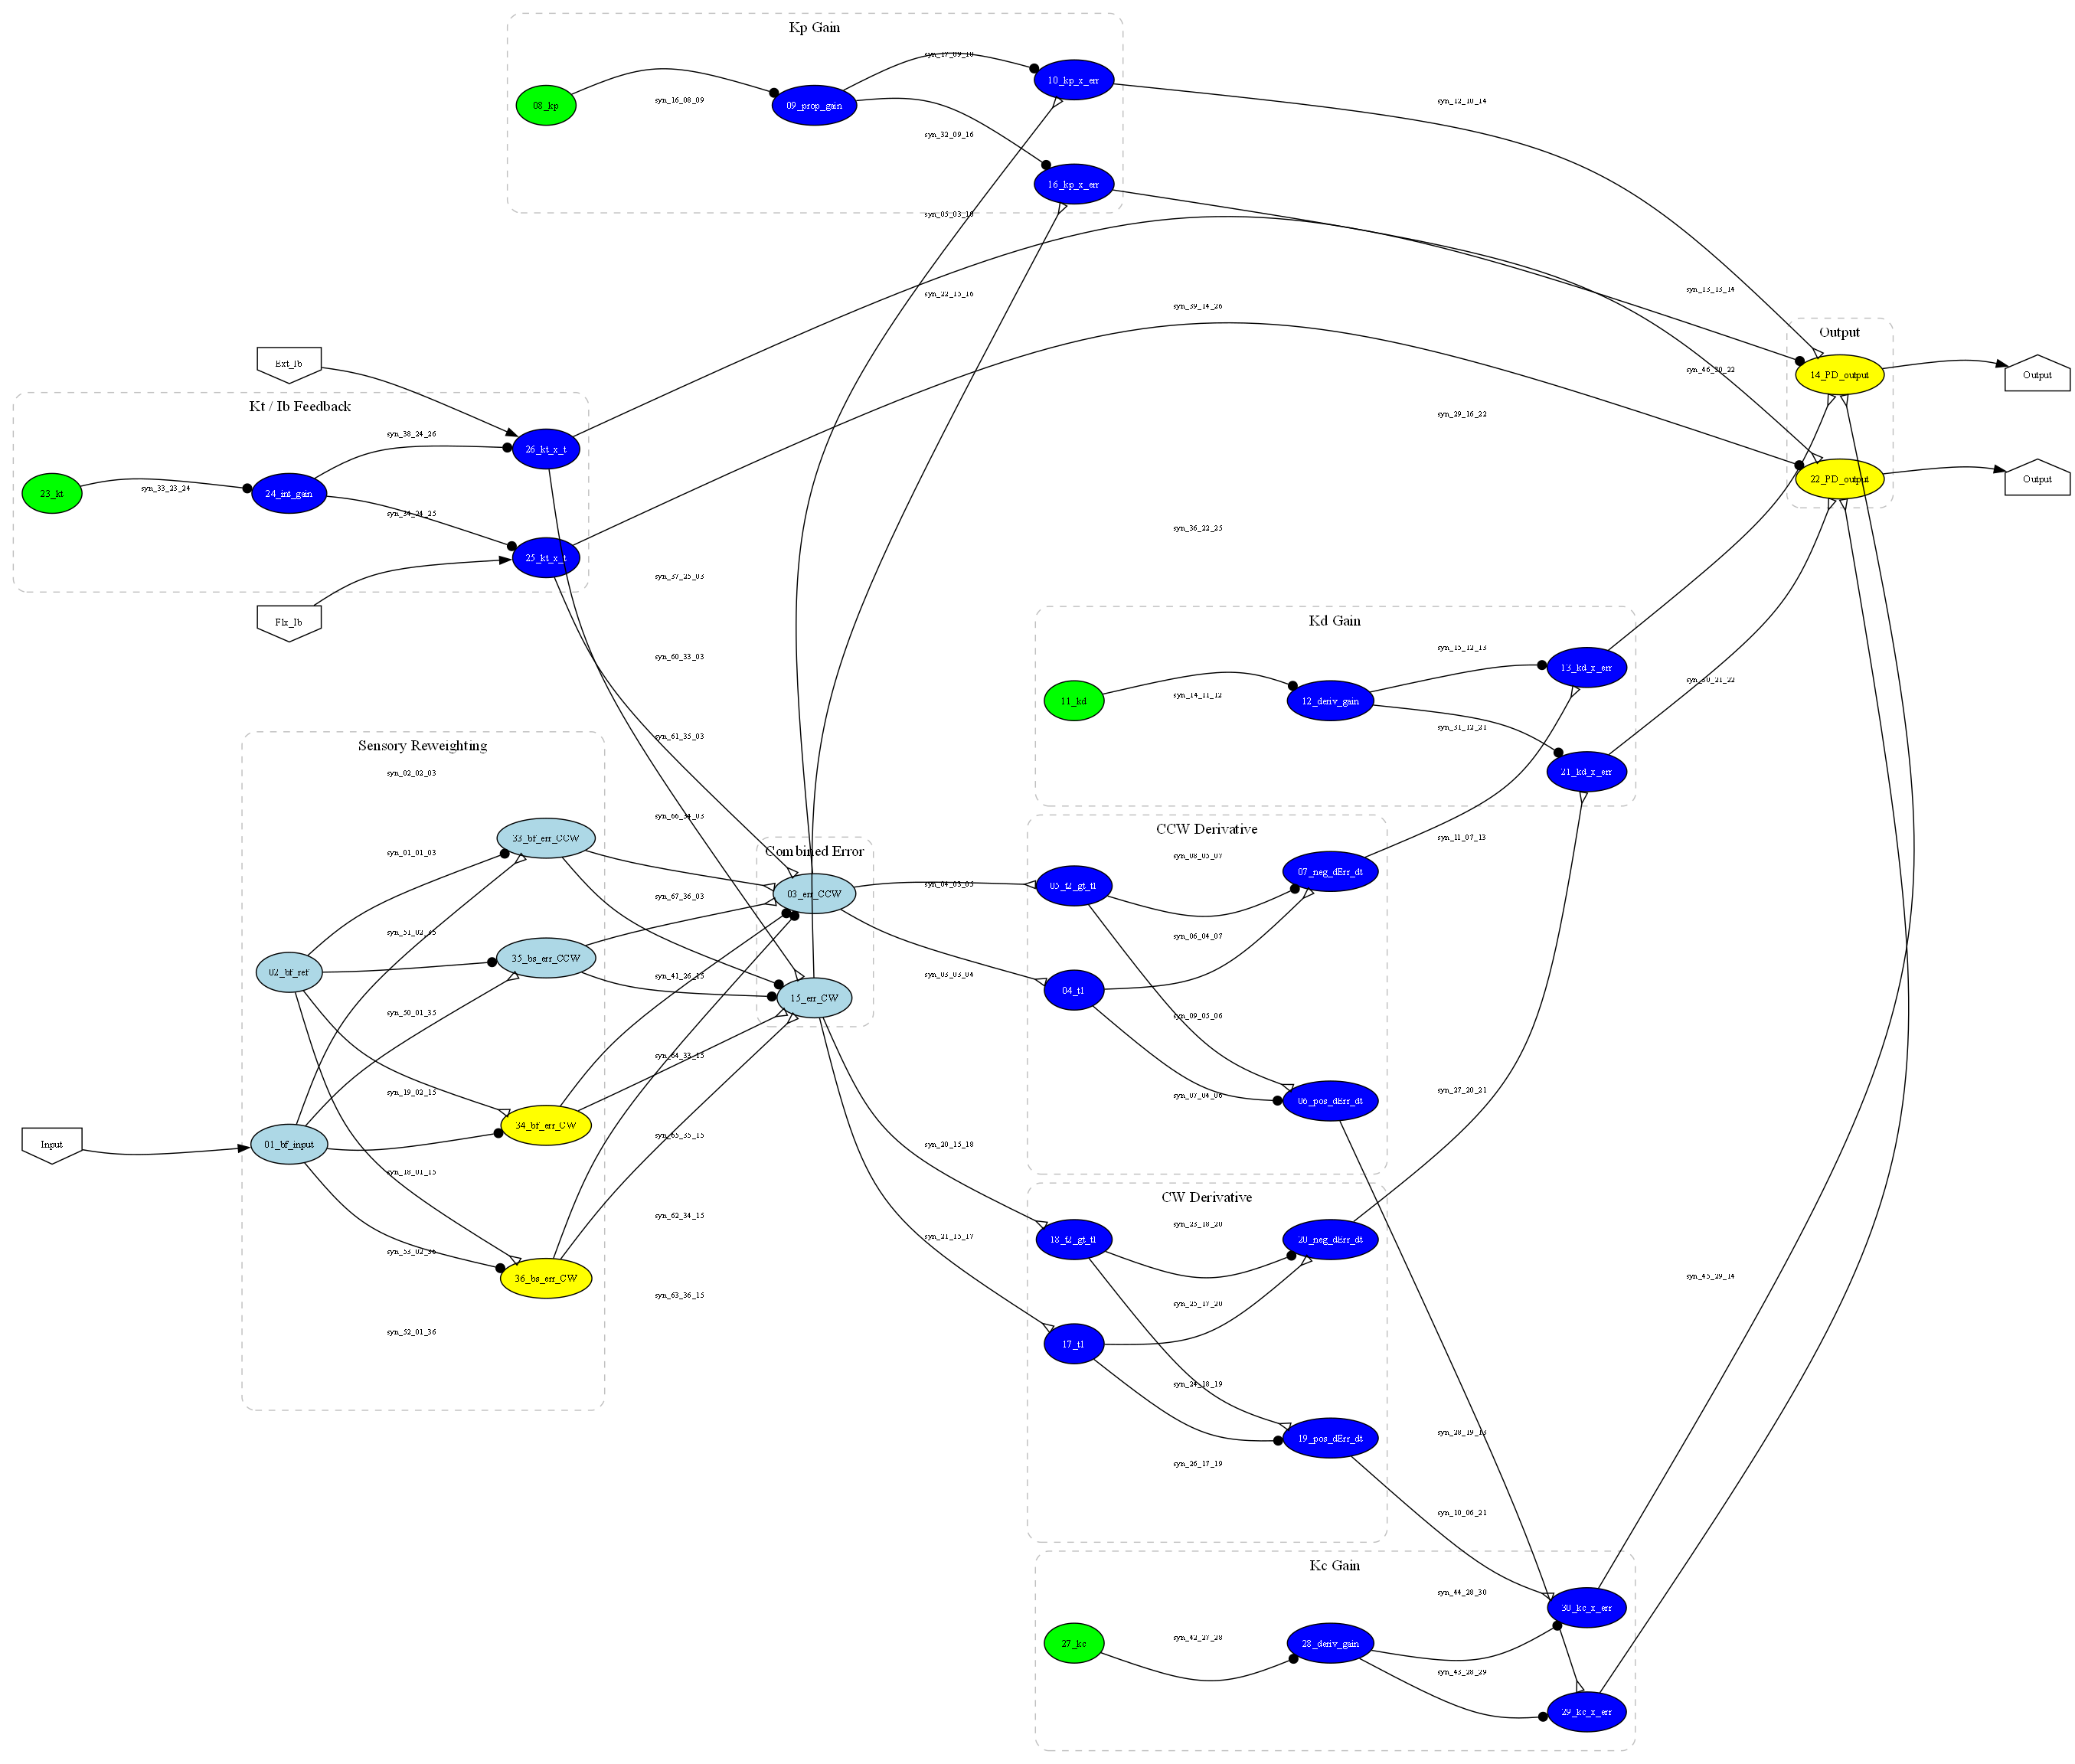
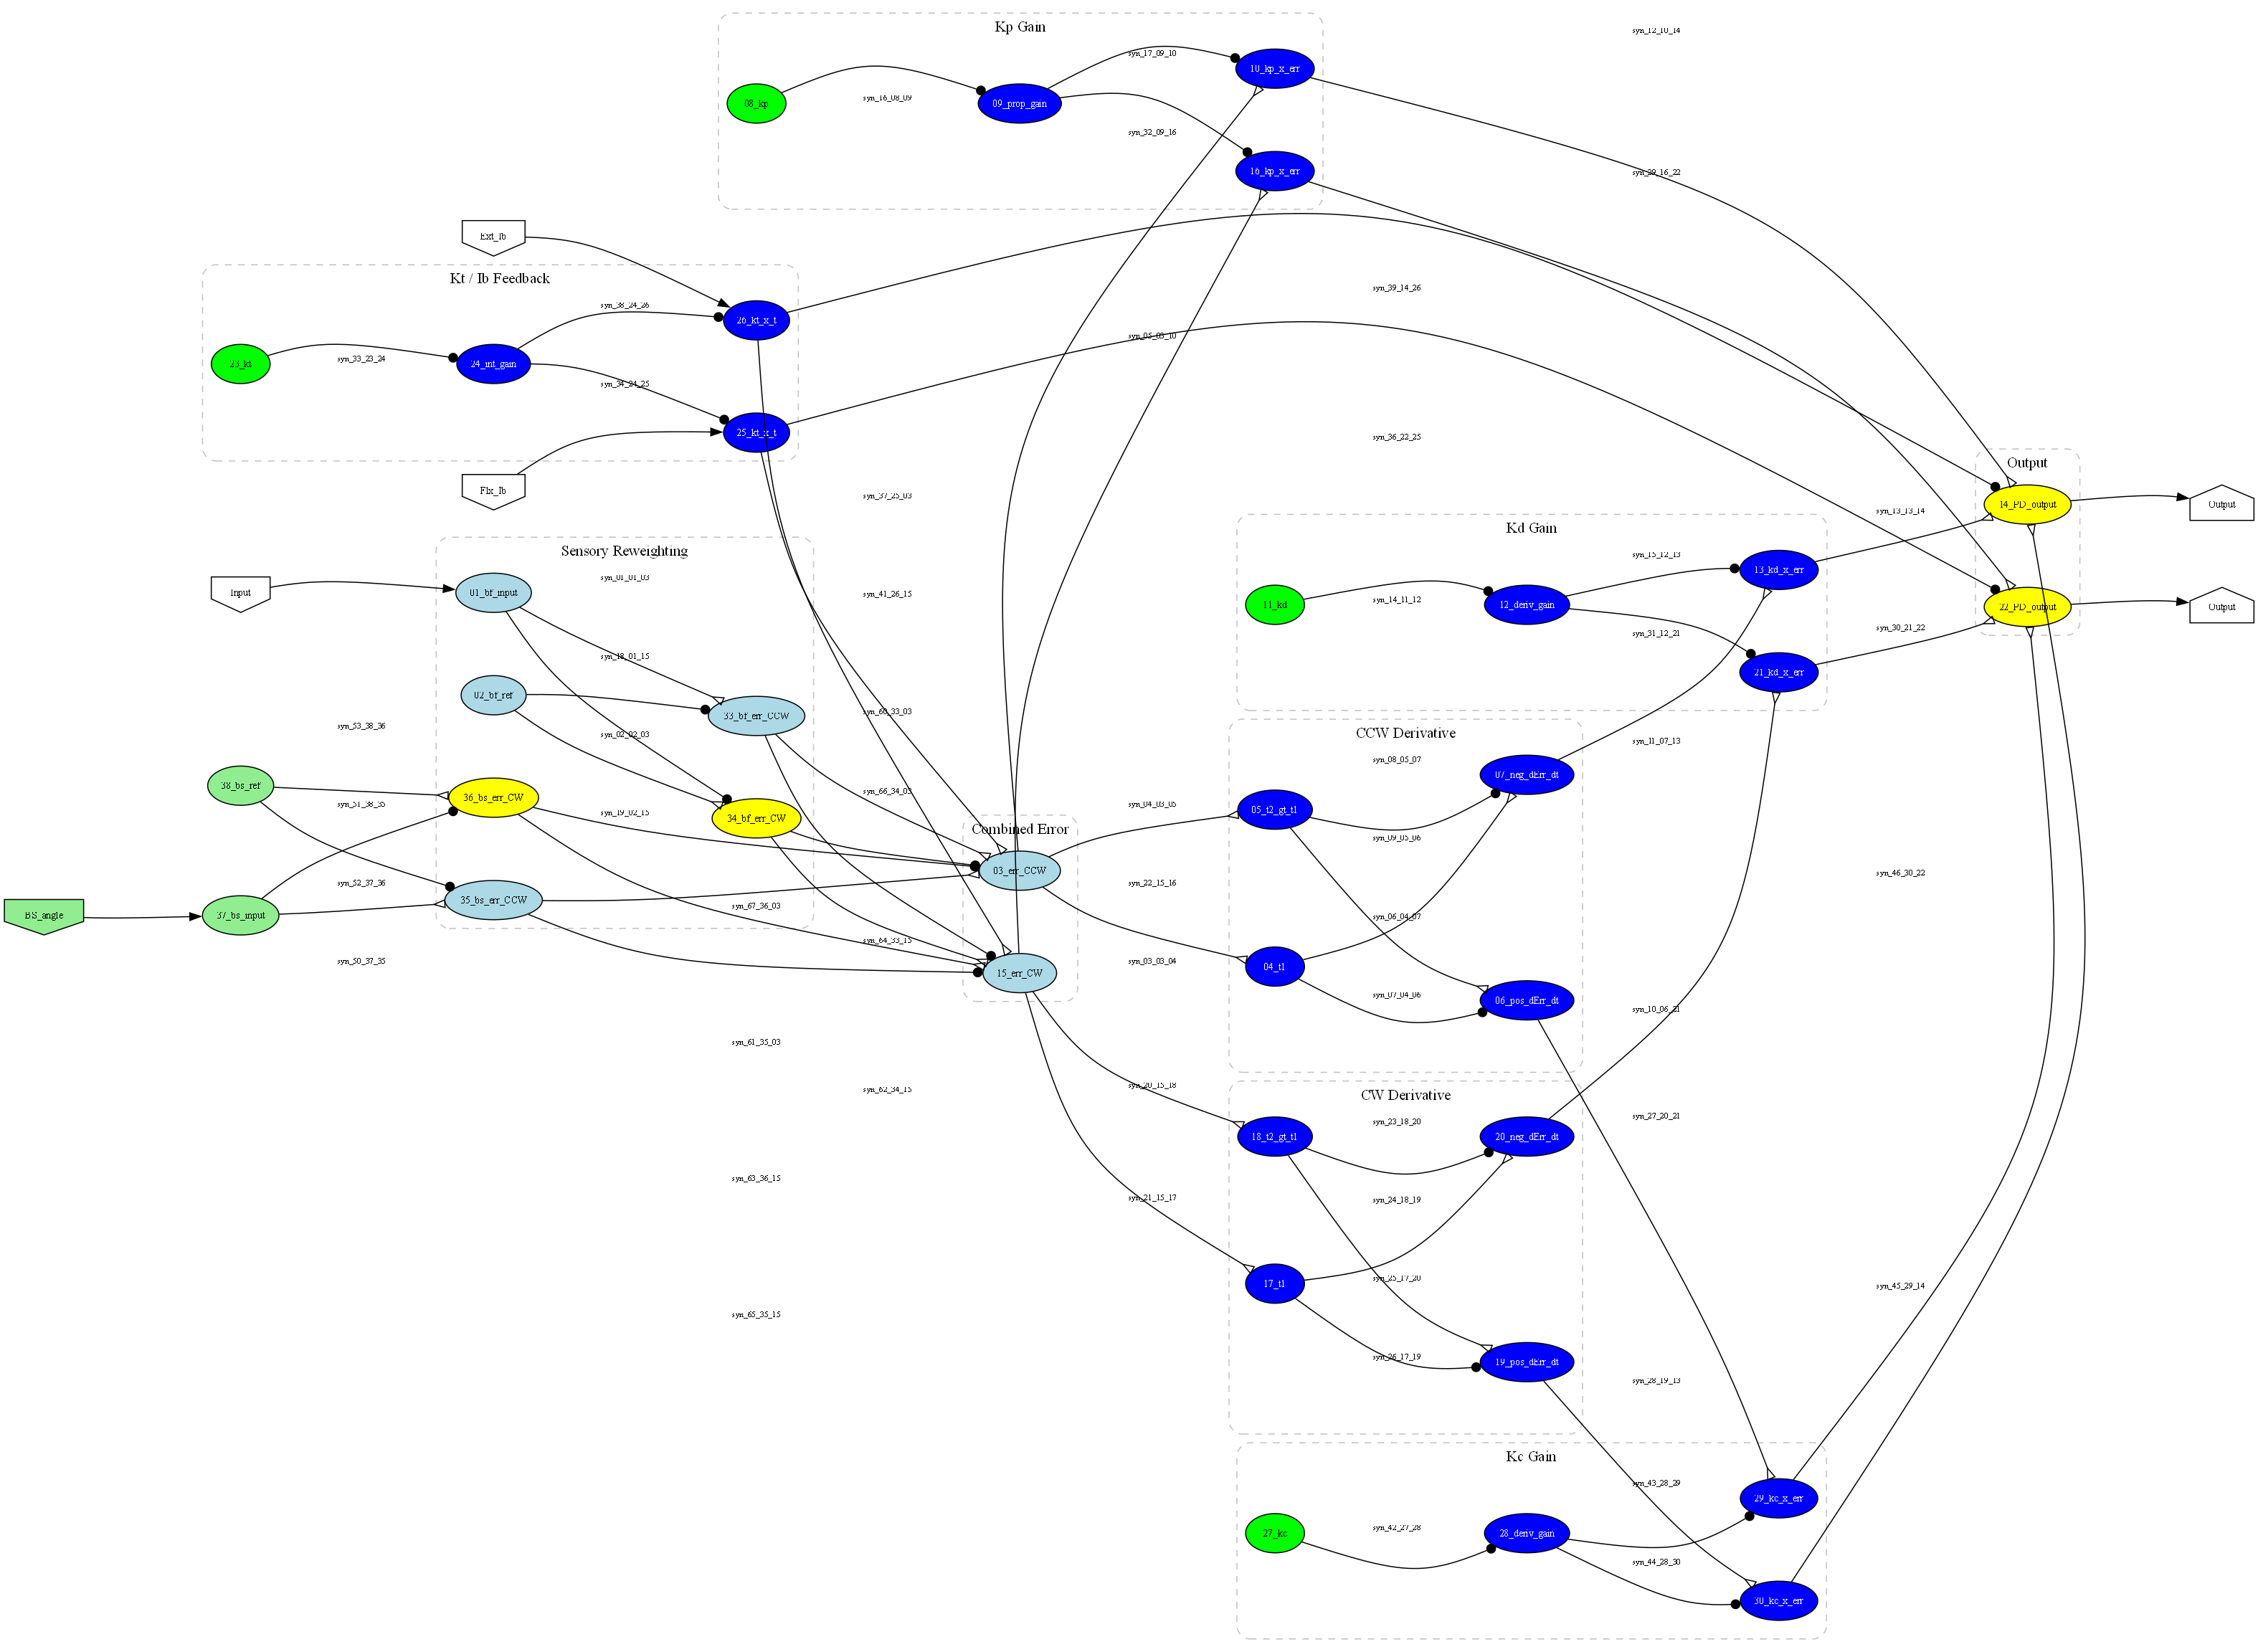
updates

diff --git a/Controller/mujoco_lessons/g2_integrate.py b/Controller/mujoco_lessons/g2_integrate.py
@@ -20,7 +20,7 @@ dt_s = model.opt.timestep       # 0.0001 s
 dt_ms = dt_s * 1000             # 0.1 ms (sns_toolbox uses ms)
 
 # __ sns network_______________________________
-gains = (1.0, 1.0, 1.0, 1.0)    # (kp, kd, kc, kt) -use PSO to tune to actual
+gains = (4.26, 5.01, 2.48, 5.42)    # (kp, kd, kc, kt) -use PSO to tune to actual
 net = balance.generate_sns(gains, ctrlr_mode=3, bs_wt=0.3)
 sns = net.compile(backend='numpy', dt=dt_ms, debug=False)
 
@@ -98,14 +98,14 @@ time_log     = np.zeros(n_steps)
 surface_log  = np.zeros(n_steps)   # surface sway (deg)
 ankle_log    = np.zeros(n_steps)   # ankle angle rel. to surface (deg)
 body_abs_log = np.zeros(n_steps)   # absolute body angle in world (deg)
-ctrl_ccw_log = np.zeros(n_steps)   # CCW muscle activation [0,1]
-ctrl_cw_log  = np.zeros(n_steps)   # CW muscle activation [0,1]
-sns_ccw_log  = np.zeros(n_steps)   # SNS CCW PD output voltage (mV)
-sns_cw_log   = np.zeros(n_steps)   # SNS CW PD output voltage (mV)
+ctrl_ccw_log = np.zeros(n_steps)   # Flx_muscle activation [0,1]  (ctrl[0])
+ctrl_cw_log  = np.zeros(n_steps)   # Ext_muscle activation [0,1]  (ctrl[1])
+sns_ccw_log  = np.zeros(n_steps)   # SNS extensor output voltage (mV)  (outputs[0])
+sns_cw_log   = np.zeros(n_steps)   # SNS flexor  output voltage (mV)  (outputs[1])
 
 #__ Simulation ______________________________________
-data.qpos[0] = 0.0   # surface starts flat
-data.qpos[1] = 0.0   # ankle starts upright relative to surface
+data.qpos[0] = 0.0   # platform starts flat
+data.qpos[8] = 0.0   # ankle starts upright relative to platform
 
 with mujoco.viewer.launch_passive(model, data) as viewer:
     for step in range(len(prts_pos)):
@@ -116,17 +116,17 @@ with mujoco.viewer.launch_passive(model, data) as viewer:
         data.qpos[0] = prts_pos[step]
         data.qvel[0] = prts_vel[step]
 
-        # 1. Proprioceptive input (bf): ankle angle relative to surface
-        inputs[0] = angle_to_na(data.qpos[1])
+        # 1. Proprioceptive input (bf): ankle angle relative to platform
+        inputs[0] = angle_to_na(data.qpos[8])
 
         # 2. Graviceptive input (bs): mode-dependent body-in-space estimate
         if mode == 1:
             inputs[1] = inputs[0]                                  # mirrors bf; bs_wt has no effect
         elif mode == 2:
-            inputs[1] = angle_to_na(data.qpos[0] + data.qpos[1])  # world-frame body angle, no filter
+            inputs[1] = angle_to_na(data.qpos[0] + data.qpos[8])  # world-frame body angle, no filter
         elif mode == 3:
-            body_angle = data.qpos[0] + data.qpos[1]              # synthetic IMU from MuJoCo truth
-            body_vel   = data.qvel[0] + data.qvel[1]
+            body_angle = data.qpos[0] + data.qpos[8]              # synthetic IMU from MuJoCo truth
+            body_vel   = data.qvel[0] + data.qvel[7]
             acc_sim    = [np.sin(body_angle) * 9.81, np.cos(body_angle) * 9.81]
             inputs[1]  = angle_to_na(cf.update(body_vel, body_vel, acc_sim, acc_sim, dt_s))
         elif mode == 4:
@@ -135,22 +135,22 @@ with mujoco.viewer.launch_passive(model, data) as viewer:
             inputs[1]   = angle_to_na(cf.update(gyro1, gyro2, acc1, acc2, dt_s))
 
         # 3. Ib tension feedback
-        inputs[2] = tension_to_ib_na(data.actuator_force[1])  # Flx_Ib
-        inputs[3] = tension_to_ib_na(data.actuator_force[0])  # Ext_Ib
+        inputs[2] = tension_to_ib_na(data.actuator_force[0])  # Flx_Ib  (Flx_muscle = ctrl[0])
+        inputs[3] = tension_to_ib_na(data.actuator_force[1])  # Ext_Ib  (Ext_muscle = ctrl[1])
 
 
         # 4. Step SNS
         outputs = sns(inputs)
 
         # 5. Apply muscle activations
-        data.ctrl[0] = v_to_activation(outputs[0])
-        data.ctrl[1] = v_to_activation(outputs[1])
+        data.ctrl[0] = v_to_activation(outputs[1])  # Flx_muscle → flexor  output
+        data.ctrl[1] = v_to_activation(outputs[0])  # Ext_muscle → extensor output
 
         # 6. Step physics
         mujoco.mj_step(model, data)
         time_log[step]     = data.time
         surface_log[step]  = np.degrees(data.qpos[0])
-        ankle_log[step]    = np.degrees(data.qpos[1])
+        ankle_log[step]    = np.degrees(data.qpos[8])
         body_abs_log[step] = surface_log[step] + ankle_log[step]
         ctrl_ccw_log[step] = data.ctrl[0]
         ctrl_cw_log[step]  = data.ctrl[1]
@@ -161,26 +161,26 @@ with mujoco.viewer.launch_passive(model, data) as viewer:
         viewer.sync()
 
 # ── Plotting ──────────────────────────────────────────────────────────────────
-ds = 100   # downsample: every 100 steps = 10 ms resolution (6050 points total)
+ds = 500   # downsample: every 500 steps = 50 ms resolution (~1210 points total)
 t  = time_log[::ds]
 
 fig, axes = plt.subplots(3, 1, figsize=(14, 8), sharex=True, constrained_layout=True)
 
-axes[0].plot(t, surface_log[::ds],  label='Surface sway (PRTS)', color='gray',   lw=0.8)
-axes[0].plot(t, body_abs_log[::ds], label='Body angle (world)',  color='blue',   lw=0.8)
+axes[0].scatter(t, surface_log[::ds],  label='Surface sway (PRTS)', color='gray',   s=1.5)
+axes[0].scatter(t, body_abs_log[::ds], label='Body angle (world)',  color='blue',   s=1.5)
 axes[0].set_ylabel('Angle (deg)')
 axes[0].set_title('Surface perturbation vs body response')
 axes[0].legend()
 axes[0].grid(True)
 
-axes[1].plot(t, ankle_log[::ds], label='Ankle angle (rel. to surface)', color='green', lw=0.8)
+axes[1].scatter(t, ankle_log[::ds], label='Ankle angle (rel. to surface)', color='green', s=1.5)
 axes[1].set_ylabel('Angle (deg)')
 axes[1].set_title('Proprioceptive signal fed to SNS')
 axes[1].legend()
 axes[1].grid(True)
 
-axes[2].plot(t, ctrl_ccw_log[::ds], label='CCW activation', color='orange', lw=0.8)
-axes[2].plot(t, ctrl_cw_log[::ds],  label='CW activation',  color='red',    lw=0.8)
+axes[2].scatter(t, ctrl_ccw_log[::ds], label='Flx activation', color='orange', s=1.5)
+axes[2].scatter(t, ctrl_cw_log[::ds],  label='Ext activation', color='red',    s=1.5)
 axes[2].set_ylabel('Activation [0, 1]')
 axes[2].set_xlabel('Time (s)')
 axes[2].set_title('Hill muscle activations')

diff --git a/Controller/prts_generator.py b/Controller/prts_generator.py
@@ -1,29 +1,33 @@
 import numpy as np
 
-def generate_prts(v_amp, dt):
+def generate_prts(v_amp, dt, shift=7):
     """
     Generate a Pseudo-Random Ternary Sequence (PRTS) for postural control experiments.
 
     Parameters:
-    v_amp (float): Amplitude of the PRTS signal (degrees).
-    dt (float): Time step for the PRTS signal (seconds).
+    v_amp (float): velocity amplitude in rad/s for non-zero clock steps
+    dt    (float): simulation time step in seconds
+    shift (int)  : phase offset — cycles the 242-element sequence to select starting point
+    """
+    clock_dt = 0.25
+    n_states = 3**5 - 1                    # 242 clock periods × 0.25 s = 60.5 s
 
-"""
-    # PRTS parameters
-    clock_dt = 0.25 # time step for the PRTS signal (seconds)
-    n_states =3**5-1 # number of states in the PRTS sequence (3^n - 1, where n is the number of bits)
-    reg = [2, 0, 2, 0, 2] # initial state from peterka 2002 fig 2A
-    seq= []
-    for i in range(n_states):
-        
-        # update the register using the feedback taps (2, 0, 2, 0, 2)
-        new_bit = (reg[2] + reg[3] + reg[4]) % 3 # sum the tapped bits and take mod 3
-        seq.append(new_bit) # output is the last bit of the register
-        reg = [new_bit] + reg[:-1] # shift the register and add the new bit at the front
+    # 5-stage GF(3) shift register (Peterka 2002 initial state)
+    reg = np.array([2, 0, 2, 0, 2], dtype=np.int8)
+    out = np.empty(n_states, dtype=np.int8)
 
-    vel_seq = [0 if x == 0 else (v_amp if x == 1 else -v_amp) for x in seq]
+    for n in range(n_states):
+        m       = (int(reg[2]) - int(reg[3]) - int(reg[4])) % 3
+        out[n]  = m
+        reg[1:] = reg[:4].copy()           # shift right: oldest falls off
+        reg[0]  = m
+
+    # Map {0, 1, 2} → {0, +v_amp, -v_amp}
+    vel_seq = np.where(out == 2, -1, out.astype(np.float64)) * v_amp
+    vel_seq = np.roll(vel_seq, shift)      # select starting phase within the 242-element cycle
+
     samples_per_clock = int(clock_dt / dt)
-    vel_expanded = np.repeat(vel_seq, samples_per_clock)
+    vel_expanded      = np.repeat(vel_seq, samples_per_clock)
     pos = np.cumsum(vel_expanded) * dt
     t   = np.arange(len(pos)) * dt
     return t, pos

diff --git a/Controller/balance.py b/Controller/balance.py
@@ -419,8 +419,9 @@ def generate_sns(gains:tuple, ctrlr_mode:int=3, analysis_outputs:bool=False, bs_
         net.add_output('34_bf_err_CW')
         net.add_output('35_bs_err_CCW')
         net.add_output('36_bs_err_CW')
+        net.add_output('03_err_CCW')   # combined weighted CCW error neuron
+        net.add_output('15_err_CW')    # combined weighted CW error neuron
     # net.add_output('02_bf_ref')
-    # net.add_output('03_err_CCW')
 
     # Add outputs for measuring Kp vs Kd
     # net.add_output('10_kp_x_err')